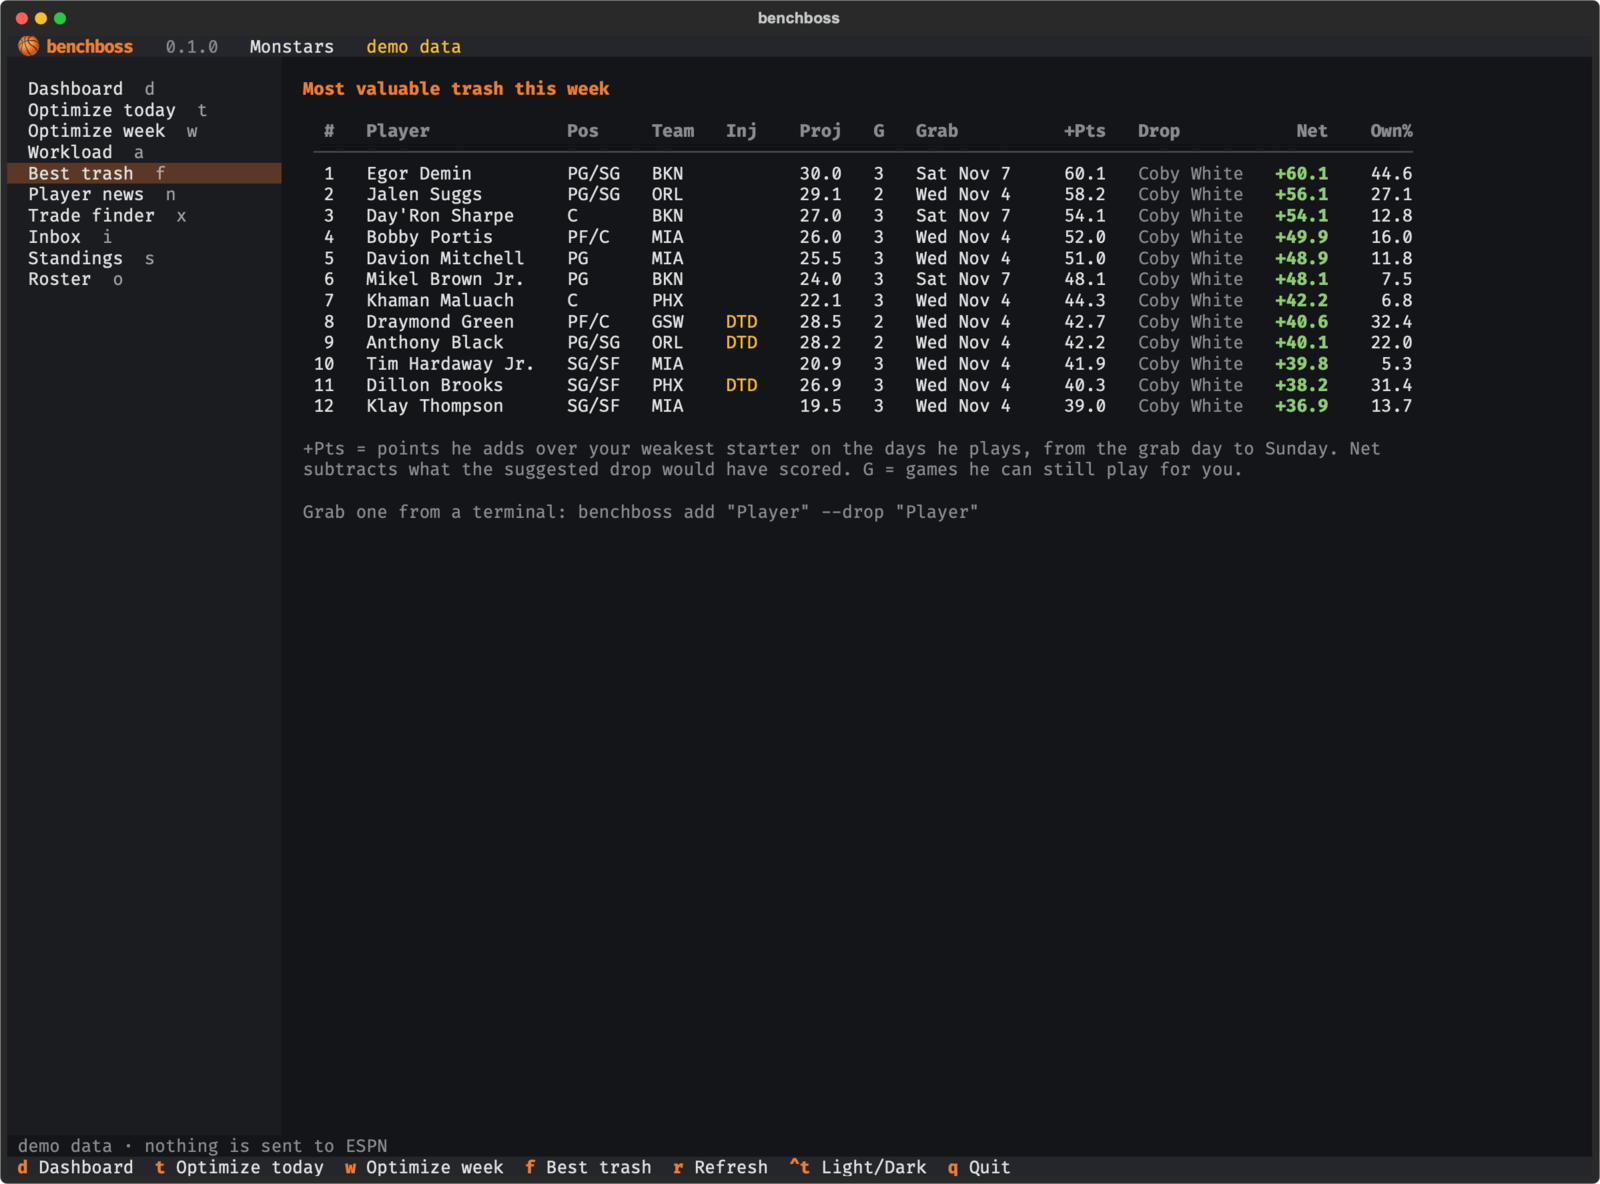
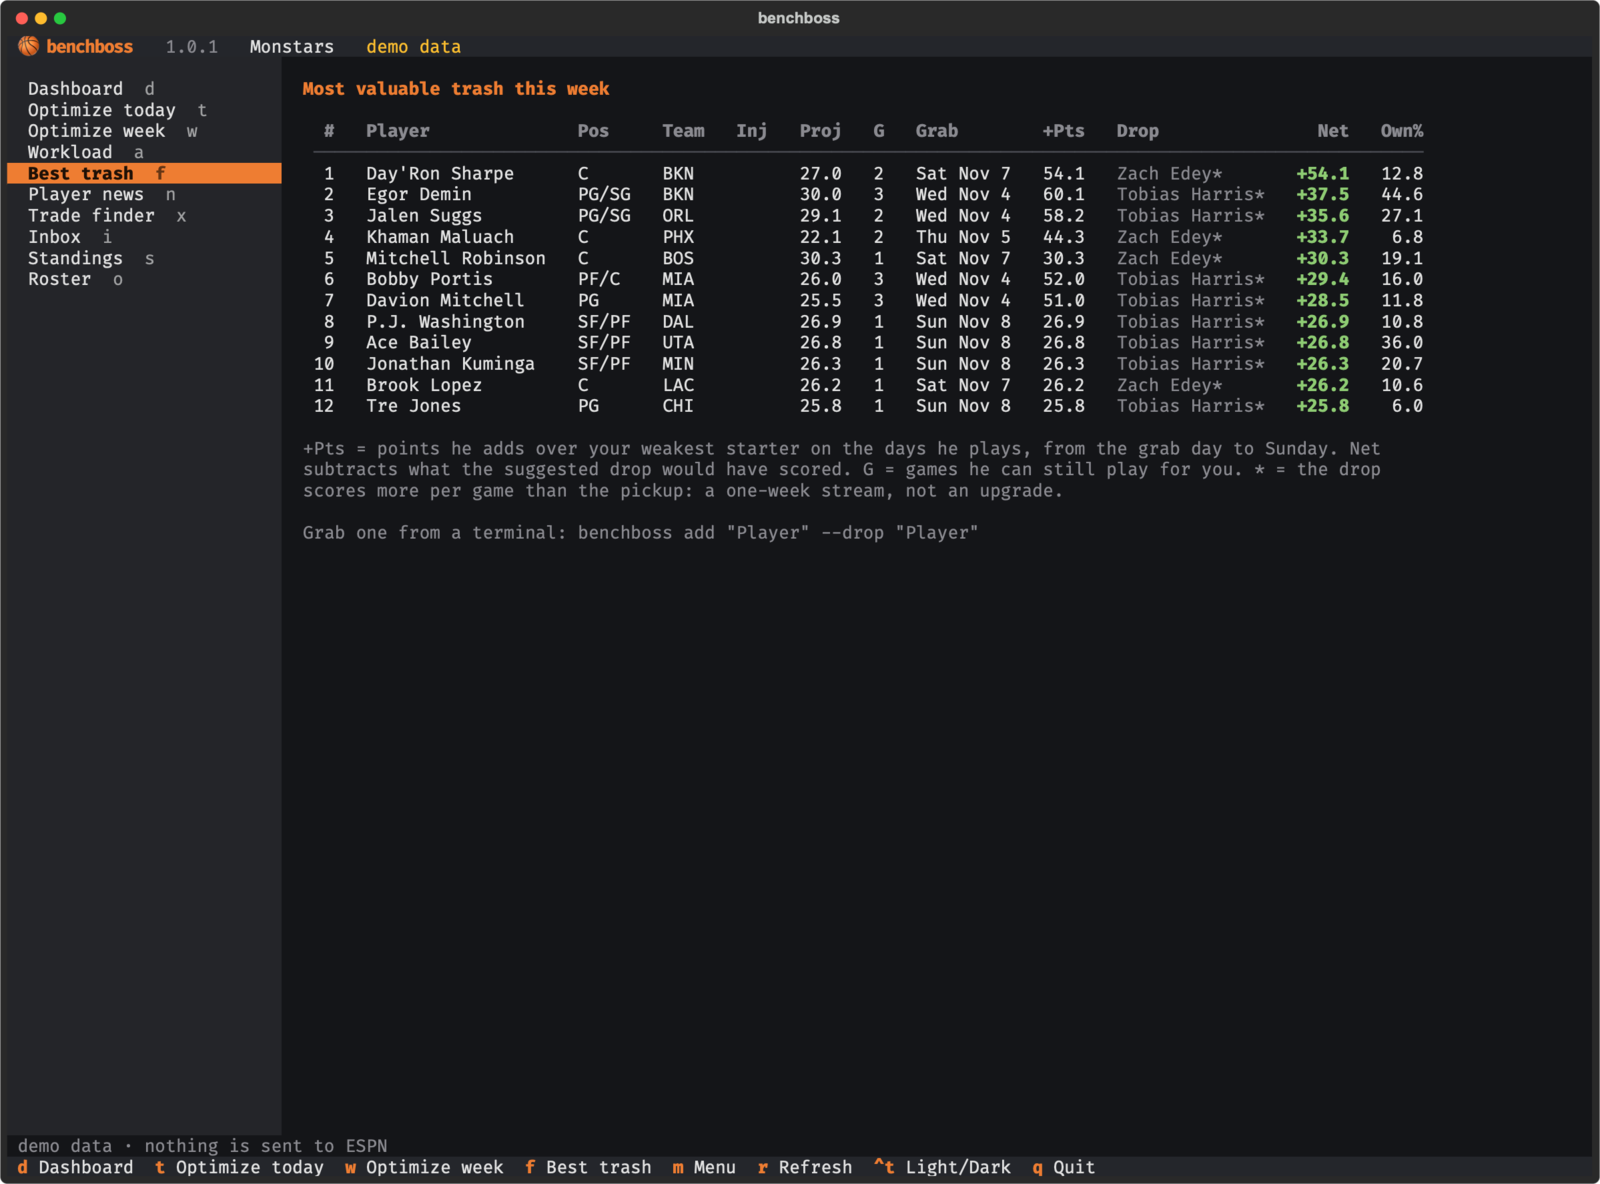
Suggest the weakest legal drop and flag one-week streams; document the menu key

diff --git a/src/benchboss/core/trash.py b/src/benchboss/core/trash.py
@@ -38,7 +38,8 @@ class TrashPick:
     drop: Player | None = None
     drop_cost: float = 0.0     # points lost this week by dropping ``drop``
     on_waivers: bool = False
-    needs_drop: bool = True    # no open spot: ``drop`` None then means there is no clear drop
+    needs_drop: bool = True    # no open spot, so someone has to go
+    drop_projects_higher: bool = False  # the drop scores more per game: a one-week stream
 
     @property
     def net(self) -> float:
@@ -52,7 +53,8 @@ class TrashPick:
                 "best_pickup_day": best, "week_gain": round(self.gain, 1),
                 "drop": self.drop.name if self.drop else None,
                 "drop_cost": round(self.drop_cost, 1), "net_gain": round(self.net, 1),
-                "on_waivers": self.on_waivers, "needs_drop": self.needs_drop}
+                "on_waivers": self.on_waivers, "needs_drop": self.needs_drop,
+                "drop_projects_higher": self.drop_projects_higher}
 
 
 def _day_tables(team: Team, cal: SeasonCalendar, periods: list[int]) -> dict[int, list[tuple[float, int]]]:
@@ -126,10 +128,12 @@ def scout(free_agents: list[Player], team: Team, cal: SeasonCalendar, periods: l
     ``now`` (timezone aware) makes today count only for free agents whose game has not tipped
     off yet; with ``roster_lock`` FIRSTGAME_SCORINGPERIOD, today stops counting for everyone
     once the day's first game has tipped off. ``slot_counts`` lets an open roster spot skip
-    the drop, and ``position_limits`` keeps the suggested drop legal. The drop is never
-    projected higher than the free agent; when nobody qualifies ``drop`` stays None. The best
-    day maximizes gain minus drop cost; ties go to the earlier day, because waiting risks
-    losing the player to someone else.
+    the drop, and ``position_limits`` keeps the suggested drop legal. The drop is the
+    cheapest one this week among players projected lower than the free agent; when nobody
+    projects lower it is the lowest projected player who can legally go, and the pick is
+    flagged ``drop_projects_higher`` (a one-week stream, not an upgrade). The best day
+    maximizes gain minus drop cost; ties go to the earlier day, because waiting risks losing
+    the player to someone else.
     """
     remaining = [p for p in periods if p >= today_period]
     tables = _day_tables(team, cal, remaining)
@@ -143,12 +147,17 @@ def scout(free_agents: list[Player], team: Team, cal: SeasonCalendar, periods: l
         first = today_period + max(waiver_days if on_waivers else 0, 1 if locked_today else 0)
         days = [p for p in remaining if p >= first]
         needs_drop = full or not fits_limits(team, position_limits, fa)
-        drop = None
+        drop, higher = None, False
         if needs_drop:
             drop, _ = weakest_link(
                 team, cal, days, starters, tables=tables,
                 allowed=lambda y, fa=fa: (y.proj < fa.proj
                                           and fits_limits(team, position_limits, fa, y)))
+            if drop is None:
+                legal = [s.player for s in team.roster if s.slot_id != IR
+                         and fits_limits(team, position_limits, fa, s.player)]
+                drop = min(legal, key=lambda y: y.proj, default=None)
+                higher = drop is not None
         skip = drop.id if drop else None
         playable = [sp for sp in days if cal.plays(fa.pro_team_id, sp)
                     and (sp != today_period or not_started(cal, fa.pro_team_id, sp, now))]
@@ -157,7 +166,8 @@ def scout(free_agents: list[Player], team: Team, cal: SeasonCalendar, periods: l
         lost = {sp: _contribution(drop.id, tables[sp], starters) for sp in days} if drop else {}
         gains = {d: sum((v for sp, v in added.items() if sp >= d), 0.0) for d in days}
         drop_cost = {d: sum((v for sp, v in lost.items() if sp >= d), 0.0) for d in days}
-        pick = TrashPick(fa, len(playable), gains, on_waivers=on_waivers, needs_drop=needs_drop)
+        pick = TrashPick(fa, len(playable), gains, on_waivers=on_waivers, needs_drop=needs_drop,
+                         drop_projects_higher=higher)
         if gains:
             pick.best_day = max(gains, key=lambda d: (gains[d] - drop_cost.get(d, 0.0), -d))
             pick.gain = gains[pick.best_day]

diff --git a/tests/test_fix101_A.py b/tests/test_fix101_A.py
@@ -135,7 +135,7 @@ def test_drop_always_projects_below_the_pickup(session):
     for when in [(4, 15, 30), (5, 12, 0), (6, 12, 0)]:
         for pick in at(session, *when).trash(n=60):
             if pick.drop:
-                assert pick.drop.proj < pick.player.proj
+                assert pick.drop.proj < pick.player.proj or pick.drop_projects_higher
 
 
 def test_a_real_upgrade_still_gets_a_drop(session):
@@ -151,8 +151,11 @@ def test_drop_respects_the_center_limit(session):
 
 
 def test_no_clear_drop_is_flagged_in_json(session):
+    # nobody on the roster projects below him: the drop is the lowest projected legal player
+    # and the pick is flagged as a one-week stream
     data = pick_for(session.trash(n=60), "Egor Demin").to_dict(session.calendar)
-    assert data["drop"] is None and data["needs_drop"] is True
+    assert data["needs_drop"] is True and data["drop_projects_higher"] is True
+    assert data["drop"] is not None and data["net_gain"] == round(data["week_gain"] - data["drop_cost"], 1)
 
 
 # --- F6: games are counted from the grab day ------------------------------------------------------
@@ -207,7 +210,8 @@ def test_preseason_waiver_player_is_ready_for_opening_night(session, monkeypatch
     monkeypatch.setattr(session, "matchup_periods", lambda: week1)
     monkeypatch.setattr(session, "free_agents", lambda *a, **k: [fa, claim])
     free, waiver = sorted(session.trash(n=2), key=lambda p: p.on_waivers)
-    assert waiver.on_waivers and waiver.best_day == free.best_day == 1
+    assert waiver.on_waivers and waiver.best_day == free.best_day
+    assert free.best_day in week1
     assert waiver.games_left == free.games_left
     assert round(waiver.net, 6) == round(free.net, 6)
 

diff --git a/src/benchboss/ui/views.py b/src/benchboss/ui/views.py
@@ -156,7 +156,8 @@ def trash(picks: list[TrashPick], cal: SeasonCalendar, pal: Palette,
         cols["Grab"] = ({}, [grab(pk, False) for pk in picks])
         cols["+Pts"] = (num, [f"{pk.gain:.1f}" for pk in picks])
         cols["Drop"] = ({"overflow": "ellipsis"},
-                        [Text(pk.drop.name if pk.drop else "-", style=pal.dim) for pk in picks])
+                        [Text((pk.drop.name + ("*" if pk.drop_projects_higher else ""))
+                              if pk.drop else "-", style=pal.dim) for pk in picks])
         cols["Net"] = (num, [Text(f"{pk.net:+.1f}", style=f"bold {pal.good}" if pk.net > 0 else pal.dim)
                              for pk in picks])
         if not compact:
@@ -200,7 +201,12 @@ def trash(picks: list[TrashPick], cal: SeasonCalendar, pal: Palette,
         caption = f"+Pts = {gain}. Net subtracts what {who} would have scored."
     else:
         caption = f"Net = {gain}, minus what {who} would have scored."
-    t.caption = caption + " G = games he can still play for you."
+    caption += " G = games he can still play for you."
+    if any(pk.drop_projects_higher for pk in picks):
+        caption += (" * = the drop scores more per game than the pickup: a one-week stream, not an upgrade."
+                    if "Drop" in cols else
+                    " Some picks mean dropping a player who scores more per game: one-week streams.")
+    t.caption = caption
     return t
 
 

diff --git a/tests/test_fix101_D.py b/tests/test_fix101_D.py
@@ -228,7 +228,8 @@ def test_trash_table_fits_and_keeps_net_and_g(session, width):
 def test_trash_names_the_drop_when_its_column_goes(session):
     picks = session.trash(n=10)
     drop = picks[0].drop.name
-    narrow = text_of(views.trash(picks, session.calendar, DARK, 66), 66)
+    same = [pk for pk in picks if pk.drop and pk.drop.name == drop]
+    narrow = text_of(views.trash(same, session.calendar, DARK, 66), 66)
     assert "Drop" not in narrow.splitlines()[2]
     assert drop.split()[0] in narrow and "the suggested drop" in narrow
     wide = text_of(views.trash(picks, session.calendar, DARK, 120), 120)
@@ -240,7 +241,8 @@ def test_cli_trash_at_80_columns(capsys, monkeypatch):
     main(["--demo", "trash"])
     out = capsys.readouterr().out
     assert max(cell_len(x.rstrip()) for x in out.splitlines()) <= 80
-    assert "Net" in out and " G " in out and "+60.1" in out
+    top = demo_session().trash(n=1)[0]
+    assert "Net" in out and " G " in out and f"{top.net:+.1f}" in out
 
 
 # --- F33: fresh lineup after Apply ------------------------------------------------------------

diff --git a/tests/test_features.py b/tests/test_features.py
@@ -25,7 +25,7 @@ def test_trash_ranks_by_net_gain(session):
     assert nets == sorted(nets, reverse=True)
     for p in picks:
         assert p.best_day is None or p.best_day >= session.today_period
-        assert p.drop is None or p.drop.proj < p.player.proj
+        assert p.drop is None or p.drop.proj < p.player.proj or p.drop_projects_higher
 
 
 def test_trade_ideas_are_fair_and_varied(session):

diff --git a/CHANGELOG.md b/CHANGELOG.md
@@ -43,9 +43,10 @@ All notable changes to this project are documented here. The format follows
   not count for you.
 - No drop is charged when you have an open roster spot, for example right after moving
   someone to IR.
-- The suggested drop is never a player who projects better for the season than the free
-  agent, so a star who is out for a few days, or a solid starter, is no longer suggested as
-  the drop for a streamer.
+- The suggested drop comes from the players who project lower for the season than the free
+  agent, so a star who is out for a few days is no longer suggested as the drop. When nobody
+  projects lower, the drop is your lowest projected player and the pick is marked `*` as a
+  one-week stream instead of an upgrade.
 - The games count (G) starts on the suggested pickup day, so it matches the points shown.
 - Before the season, players on waivers no longer lose their opening night game.
 - Late on the last day of a matchup week, the dashboard no longer lists free agents as
@@ -148,8 +149,10 @@ All notable changes to this project are documented here. The format follows
   `null`, or run `benchboss setup` again, so benchboss switches to the 2028 season by itself
   on August 1, 2027.
 - With `--json`, the write commands print a JSON result instead of text.
-- `trash --json` has a new `needs_drop` field, and `drop` can be null when nobody on your
-  roster projects lower than the free agent.
+- `trash --json` has new `needs_drop` and `drop_projects_higher` fields. The suggested drop
+  is the cheapest player this week among those projected lower than the free agent; when
+  nobody projects lower it is your lowest projected player and the pick is flagged as a
+  one-week stream (marked `*` in the table). `drop` is null only when you have an open spot.
 
 ## [1.0.0] - 2026-10-15
 

diff --git a/.github/skills/trash-scout/SKILL.md b/.github/skills/trash-scout/SKILL.md
@@ -15,10 +15,11 @@ argument-hint: optional position (PG SG SF PF C G F)
    Fields: `player` (name, team, positions, injury, proj, owned), `games_left`,
    `best_pickup_day`, `week_gain` (points over the weakest starter on the days he plays),
    `drop` and `drop_cost` (suggested release and what he would have scored), `net_gain`
-   (points this week, not rest of season), `on_waivers`, `needs_drop`. The suggested drop
-   always projects lower for the season than the free agent; `drop` is null when the roster
-   has an open spot, or when `needs_drop` is true and nobody qualifies (say there is no clear
-   drop).
+   (points this week, not rest of season), `on_waivers`, `needs_drop`,
+   `drop_projects_higher`. The suggested drop is the cheapest player this week among those
+   projected lower for the season than the free agent. When nobody projects lower it is the
+   lowest projected player on the roster and `drop_projects_higher` is true: call that pick
+   a one-week stream, not an upgrade. `drop` is null only when the roster has an open spot.
 2. Cross-check volume with `benchboss activity --json` if the user cares about games played.
 3. Recommend at most three, each with one line of reasoning: net gain this week, games left,
    pickup day, injury flags. Mention waiver players cannot help until they clear.

diff --git a/README.md b/README.md
@@ -139,6 +139,7 @@ Inside the app every screen has a single key:
 | `a` | Workload | `s` | Standings |
 | `f` | Best trash | `o` | Roster |
 | `r` | Refresh | `ctrl+t` | Light or dark |
+| `m` | Show or hide the menu (it hides itself below 110 columns) | `q` | Quit |
 
 ## Using it from VS Code
 
